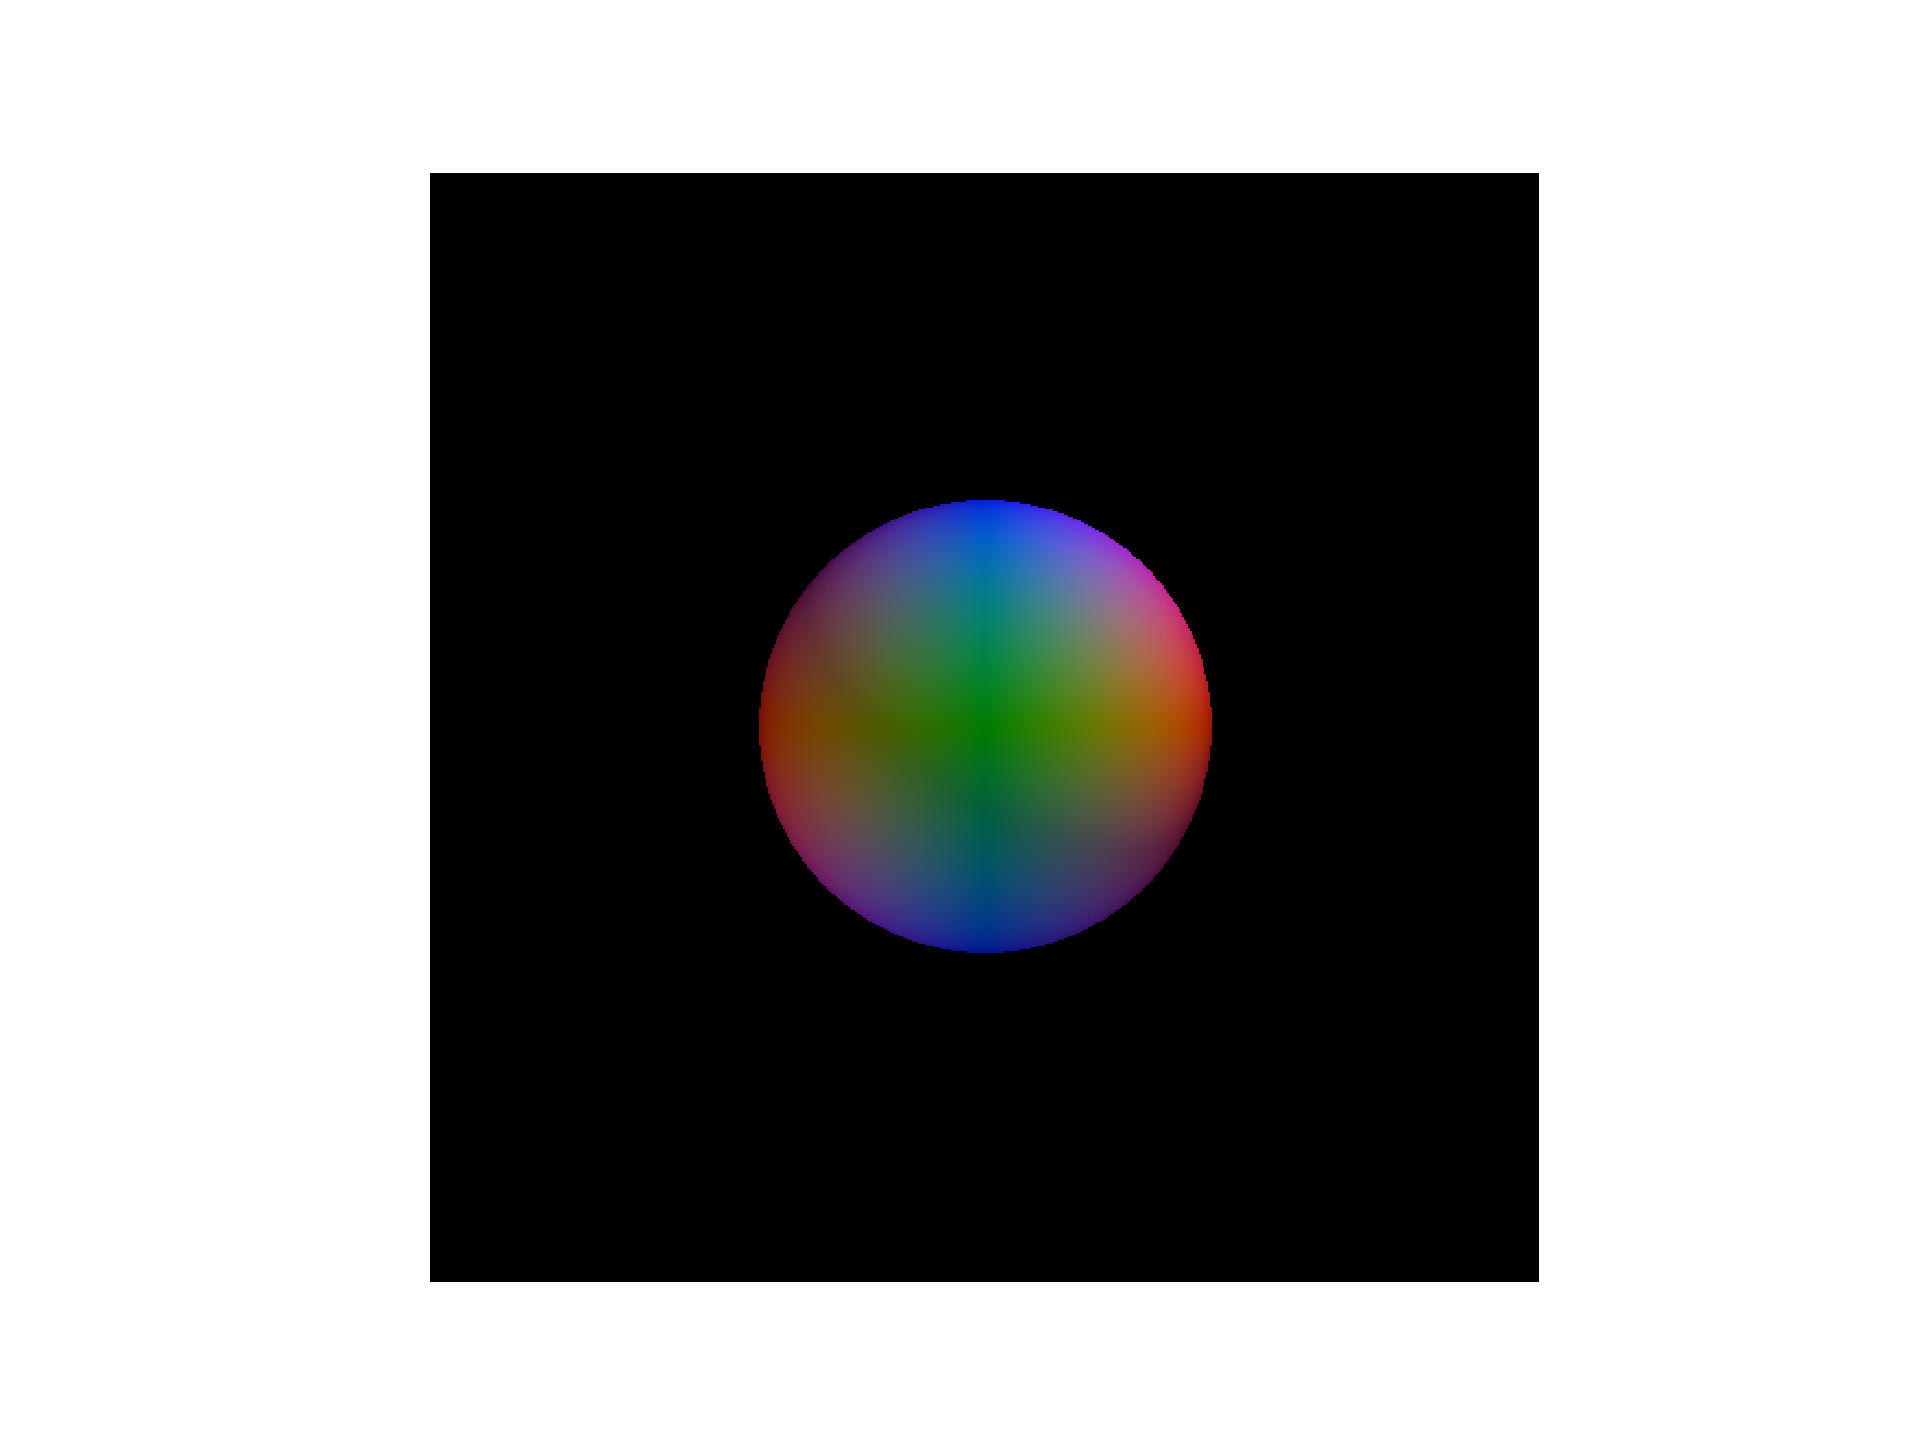
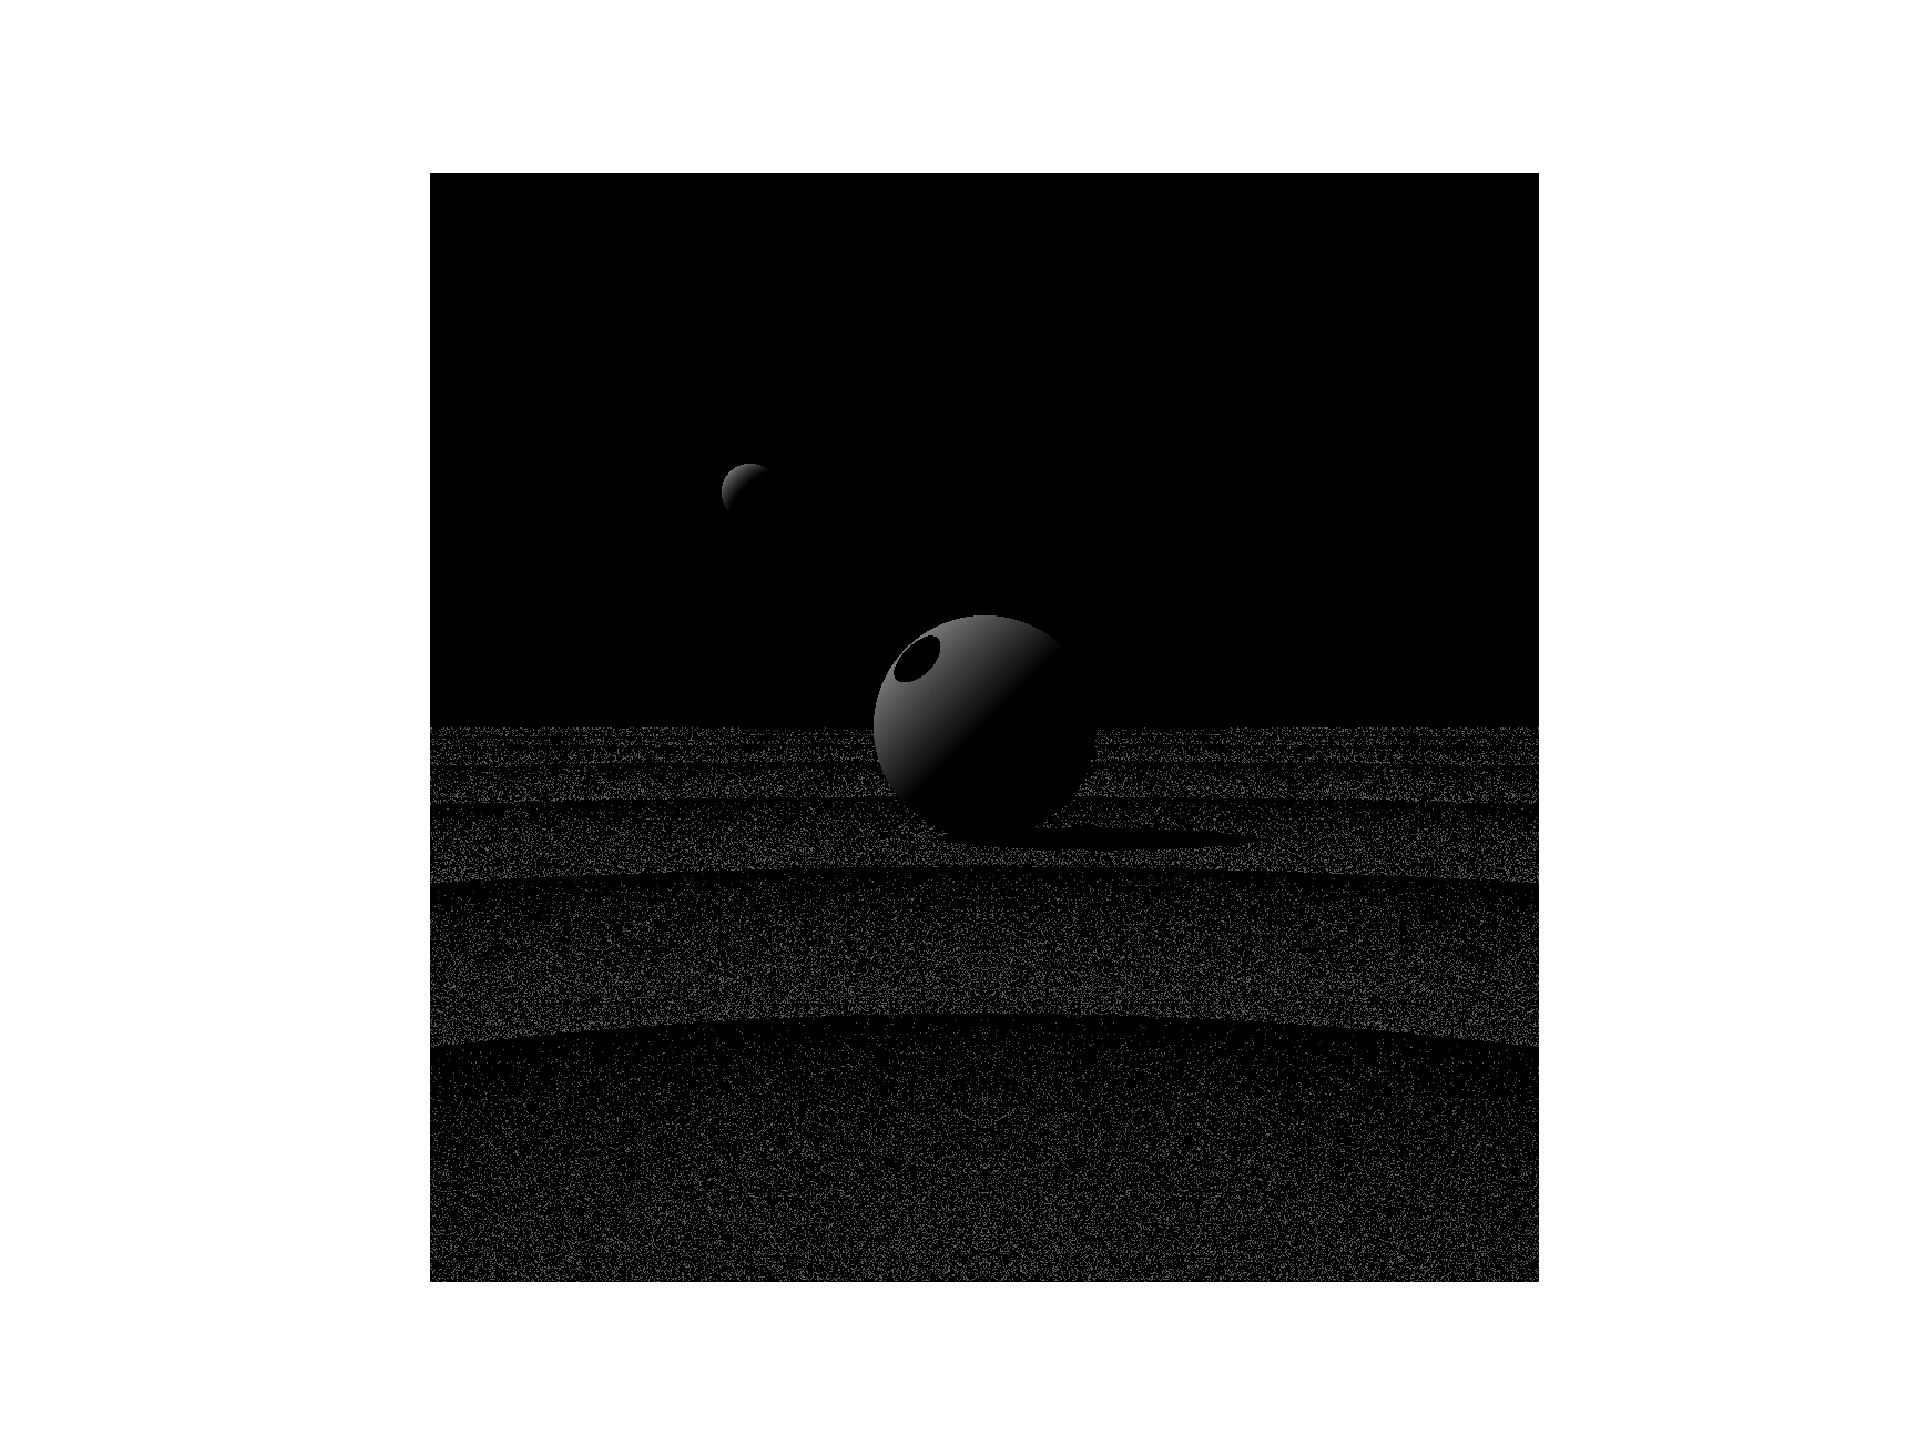
beautifulPlane + появился расчет теней

Changed region(s): [[0.2188, 0.3438, 0.8125, 0.7188], [0.2188, 0.75, 0.8125, 0.9062], [0.375, 0.3125, 0.4062, 0.3438]]

diff --git a/render/scene.cpp b/render/scene.cpp
@@ -92,31 +92,53 @@ Scene::Scene(std::vector<Figure*> figures, std::vector<Light_source*> lights, Ca
 void Scene::initialization(const char * input = "input.txt") {
 
     //vremennoe reshenie
-    BuityfulSphere* ps = new BuityfulSphere;
-    ps->build(Vec3(0, 5, 0), 1);
+    BeautifulSphere* ps = new BeautifulSphere;
+    ps->build(Vec3(0, 10, 0), 1);
+
+    
+    BeautifulSphere* ps1 = new BeautifulSphere;
+    ps1->build(Vec3(-2, 9.5, 2), 0.25);
 
     // Sphere* ps = new Sphere;
     // ps->build(Vec3(0, 5, 0), 1);
 
+    BeautifulPlane* plane = new BeautifulPlane;
+    plane->build(Vec3(0,0,1), -1);
+
+
     Point_light* pl = new Point_light;
-    pl->build(Vec3(2, 3, 3), 0.8);
+    pl->build(Vec3(5, 10, 5), 1);
     Point_light* pl1 = new Point_light;
     pl1->build(Vec3(-2, -4, -3), 0.5);
+
+    Directed_light* dl = new Directed_light;
+    dl->build(Vec3(1, 0, -1), 0.5);
+
 
     Ambient_light* al = new Ambient_light();
     al->build(0.3);
 
-    lights.push_back(pl);
-    lights.push_back(pl1);   
-    lights.push_back(al);
+    lights.clear();
+    figures.clear();
+
+    // lights.push_back(pl);
+    lights.push_back(dl);
+    // lights.push_back(pl1);   
+    // lights.push_back(al);
 
     figures.push_back(ps);
+    figures.push_back(ps1);
+    figures.push_back(plane);
 }
 
 //returns normal at intesection point else vector direction equals (2, 0, 0)
 inline Ray Scene::get_first_intersection(Ray ray) {
     Ray intersected(Vec3(0,0,0), Vec3(2,0,0), 0, 0, 0); // точка пересечения
-    double min = 1e5; // минимум расстояния до пересеченного треугольника
+
+    if (ray.dir.x == 0 and ray.dir.y == 0 and ray.dir.z == 0)
+        return intersected; //костыль для ambient light
+
+    double min = 1e5; // минимум расстояния до пересеченной фигуры
     for (std::vector<Figure*>::iterator it = figures.begin(); it != figures.end(); it++) {
         Ray point = (*it)->does_intersect(ray); 
         if (!(point.dir.x == 2) && (point.from - ray.from).abs() < min) {
@@ -131,36 +153,27 @@ inline Ray Scene::get_first_intersection(Ray ray) {
 double Scene::full_intensity_in_point(Vec3 point, Vec3 normal) {
     double ret = 0;
     for(std::vector<Light_source*>::iterator it = lights.begin(); it != lights.end(); it++) {
-        ret += (*it)->intensity_in_point(point, normal);
+        Ray target_ray = Ray(point, ((*it)->get_position(point) - point).normalized(), 0, 0, 0);
+        Ray res = get_first_intersection(target_ray);
+        if (res.dir.x == 2)
+            ret += (*it)->intensity_in_point(point, normal);
     }
     return ret;
 }
 
 void Scene::trace_ray(Ray ray) {
-    // Triangle intersected; // треугольник пересечения
-    // double min = 1e5; // минимум расстояния до пересеченного треугольника
-    // for (std::vector<Figure*>::iterator it = figures.begin(); it != figures.end(); it++) {
-    //     Triangle tr = (*it)->get_intersection_triangle(ray); // получаем треугольник от фигуры
-    //     if (!tr.is_empty() && (tr.get_intersection_point(ray) - ray.from).abs() < min) {
-    //         min = (tr.get_intersection_point(ray) - ray.from).abs();
-    //         intersected = tr;
-    //     }
-    // }
 
     Ray intersetion_point = get_first_intersection(ray);
     if (intersetion_point.dir.x != 2) {
 
 
-        res[ray.x][ray.y].r += short(full_intensity_in_point(intersetion_point.from, intersetion_point.dir) * 255)*abs(dot(intersetion_point.dir, Vec3(1,0,0)));
-        res[ray.x][ray.y].g += short(full_intensity_in_point(intersetion_point.from, intersetion_point.dir) * 255)*abs(dot(intersetion_point.dir, Vec3(0,1,0)))*0.5;
-        res[ray.x][ray.y].b += short(full_intensity_in_point(intersetion_point.from, intersetion_point.dir) * 255)*abs(dot(intersetion_point.dir, Vec3(0,0,1)));
+        res[ray.x][ray.y].r += short(full_intensity_in_point(intersetion_point.from, intersetion_point.dir) * 255)*1;//abs(dot(intersetion_point.dir, Vec3(1,0,0)));
+        res[ray.x][ray.y].g += short(full_intensity_in_point(intersetion_point.from, intersetion_point.dir) * 255)*1;//abs(dot(intersetion_point.dir, Vec3(0,1,0)));
+        res[ray.x][ray.y].b += short(full_intensity_in_point(intersetion_point.from, intersetion_point.dir) * 255)*1;//abs(dot(intersetion_point.dir, Vec3(0,0,1)));
 
         if (res[ray.x][ray.y].r > 255) res[ray.x][ray.y].r = 255;
         if (res[ray.x][ray.y].g > 255) res[ray.x][ray.y].g = 255;
         if (res[ray.x][ray.y].b > 255) res[ray.x][ray.y].b = 255;
-
-
-
     }
 }
 

diff --git a/render/scene.h b/render/scene.h
@@ -6,8 +6,8 @@
 
 */
 
-#define WIDTH 600
-#define HEIGHT 600
+#define WIDTH 1000
+#define HEIGHT 1000
 
 #include "linal/linal.h"
 #include "material/material.h"
@@ -50,7 +50,7 @@ public:
     virtual Ray does_intersect(Ray ray);
 };
 
-class BuityfulSphere : public Figure {
+class BeautifulSphere : public Figure {
     Vec3 position;
     double radius;
 public:
@@ -61,12 +61,23 @@ public:
     virtual Ray does_intersect(Ray ray);
 };
 
+
+class BeautifulPlane : public Figure {
+    Vec3 normal = Vec3(0,0,1);
+    double d = 0;
+public:
+    void build(Vec3 normal, double d);
+    virtual Ray does_intersect(Ray r);
+    Triangle get_intersection_triangle(Ray r);
+    
+};
 // ------------------------------- lights -------------------------------
 
 // -- Абстрактный класс источников света --
 class Light_source {
 public:
     virtual double intensity_in_point(Vec3 point, Vec3 normal) = 0;
+    virtual Vec3 get_position(Vec3 point) = 0;
 };
 
 class Ambient_light: public Light_source {
@@ -75,6 +86,7 @@ private:
 public: 
     Ambient_light();
     void build(double intensity);
+    Vec3 get_position(Vec3 point);
     double intensity_in_point(Vec3 point, Vec3 normal);
 };
 
@@ -85,6 +97,7 @@ private:
 public:
     Point_light();
     void build(Vec3 position, double intensity);
+    Vec3 get_position(Vec3 point);
     double intensity_in_point(Vec3 camera, Vec3 normal);
 };
 
@@ -95,6 +108,7 @@ private:
 public:
     Directed_light();
     void build(Vec3 direction, double intensity);
+    Vec3 get_position(Vec3 point);
     double intensity_in_point(Vec3 camera, Vec3 normal);
 };
 

diff --git a/render/figures.cpp b/render/figures.cpp
@@ -118,18 +118,15 @@ Ray Sphere::does_intersect(Ray ray) {
 }
     
 
-void BuityfulSphere::build(Vec3 center, double radius) {
+void BeautifulSphere::build(Vec3 center, double radius) {
     position = center; this->radius = radius;
 }
 
-Triangle BuityfulSphere::get_intersection_triangle(Ray ray) {
+Triangle BeautifulSphere::get_intersection_triangle(Ray ray) {
     return Triangle();
 }
 
-
-
-
-Ray BuityfulSphere::does_intersect(Ray ray) {
+Ray BeautifulSphere::does_intersect(Ray ray) {
     double b = 2 * dot(ray.dir, ray.from - position);
     double c = dot(ray.from - position, ray.from - position) - radius*radius;
     double delta = b *b - 4 * c;
@@ -148,8 +145,24 @@ Ray BuityfulSphere::does_intersect(Ray ray) {
 }
   
 
+//plane comtains (0, 0, normal.from.z)
+void BeautifulPlane::build(Vec3 normal, double d) {
+    this->normal = normal;
+    this->d = d;
+}
 
-// std::vector<Triangle> Sphere::get_body() {
-//     return body;
-// }
+Triangle BeautifulPlane::get_intersection_triangle(Ray ray) {
+    return Triangle();
+}
+
+Ray BeautifulPlane::does_intersect(Ray ray) {
+    double k = dot(normal, ray.dir);
+    if (k == 0)
+        return Ray(Vec3(0,0,0), Vec3(2,0,0), 0, 0, 0);
+    double t = (this->d - dot(ray.from, normal))/k;
+    // printf("t: %f\n", t);
+    if (t < 0)
+        return Ray(Vec3(0,0,0), Vec3(2,0,0), 0, 0, 0);
+    return Ray(ray.from + t*ray.dir, normal, 0, 0, 0);
+}
 

diff --git a/render/lights.cpp b/render/lights.cpp
@@ -52,3 +52,15 @@ double Directed_light::intensity_in_point(Vec3 point, Vec3 normal) {
     double ret = - cos(direction, normal) * intensity;
     return (ret > 0 ? ret : 0);
 }
+
+Vec3 Point_light::get_position(Vec3 point) {
+    return this->position;
+}
+
+Vec3 Directed_light::get_position(Vec3 point) {
+    return point - this->direction;
+}
+
+Vec3 Ambient_light::get_position(Vec3 point) {
+    return point;
+}
